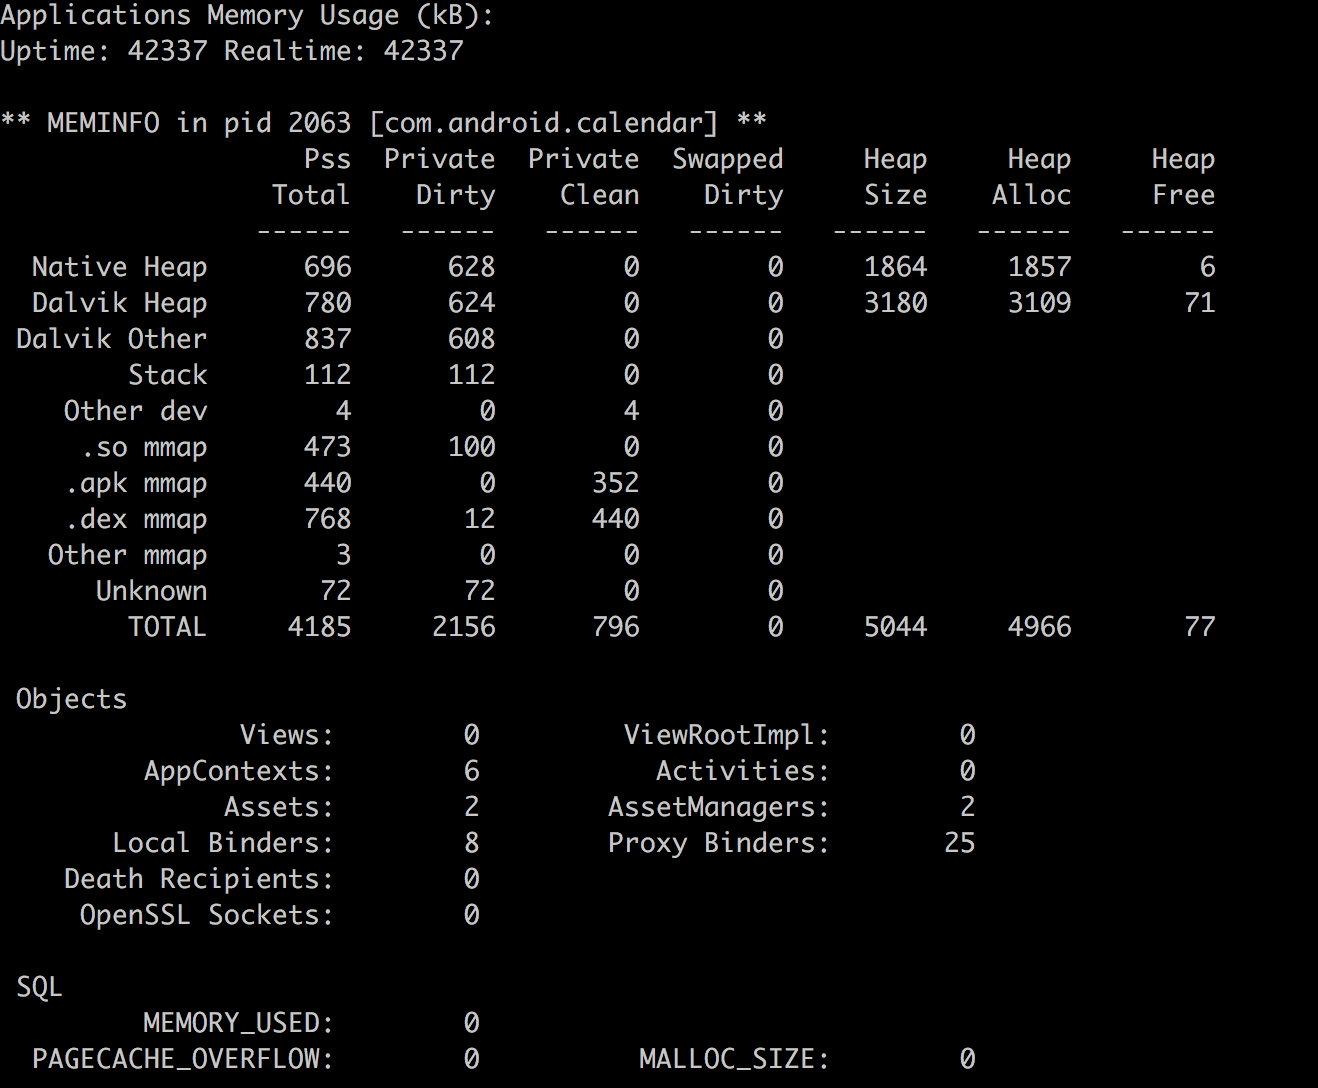
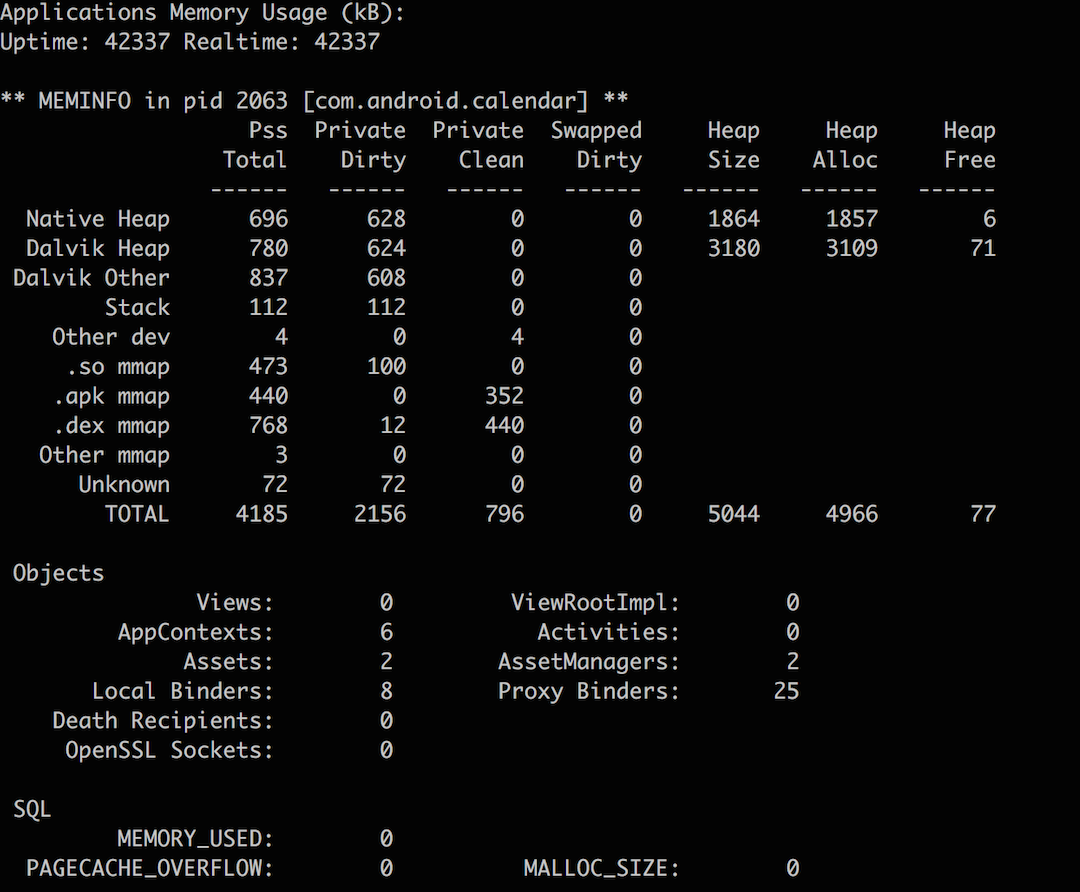
scale bitmap size and use local bitmap

diff --git a/Memory_analysis.md b/Memory_analysis.md
@@ -4,10 +4,10 @@
 
 获取对应应用的详细内存信息，一般我们会获取到如下信息(对于不同的Android版本以及不同厂商的ROM，以下信息会有一些差异)：
 
-![android_mem](http://upload-images.jianshu.io/upload_images/1098335-95a37c2c15b02a81.png?imageMogr2/auto-orient/strip%7CimageView2/2/w/1240)
-对于这些参数刚开始看到的时候比较晕，其中很多的内容不是非常的了解，也不了解这些数据来自于哪里，现在我希望通过源码分析的方式，找到这些数据来自于哪里，然后再分析它们的具体含义。
+![android_mem](/Resource/android_mem.png)
+对于这些参数刚开始看到的时候比较晕，其中很多的内容不是非常的了解，也不了解这些数据来自于哪里，这里希望通过源码分析的方式，找到这些数据来自于哪里，然后再分析它们的具体含义。
 
-&emsp;对于 [dumpsys](http://androidxref.com/4.2.2_r1/xref/frameworks/native/cmds/dumpsys/dumpsys.cpp) 这个命令我们可以在[androidxref.com](androidxref.com)中很容易的搜到它的源码，部分代码如下所示：
+&emsp;对于 [dumpsys](http://androidxref.com/4.2.2_r1/xref/frameworks/native/cmds/dumpsys/dumpsys.cpp) 这个命令我们可以在[androidxref.com](androidxref.com)中的[/frameworks/native/cmds/dumpsys/](http://androidxref.com/4.4_r1/xref/frameworks/native/cmds/dumpsys/)找到它的源码实现，部分代码如下所示：
 
 		Vector<String16> services;
 	    Vector<String16> args;
@@ -30,7 +30,7 @@
 
 		int err = service->dump(STDOUT_FILENO, args);
 
-这里就调用到了service的dump方法了，其中args存放的是dumpsys后面的参数；对于这个sm(ServiceManager)对象是Android系统中管理Service的类(其实它自己本身也是一个Service)，对于一般的Service都是通过调用Java层的ServiceManager类操作，我们通过搜索调用
+这里就调用到了service的dump方法了，其中args存放的是[dumpsys meminfo]命令后面的参数；对于这个sm(ServiceManager)对象是Android系统中管理Service的类(其实它自己本身也是一个Service)，对于一般的Service都是通过调用Java层的ServiceManager类中的add()方法将Service添加到ServiceManager中(这里有关Binder部分的内容大家可以自行学习一下)，我们通过搜索调用
 
 	ServiceManager.addService(String name, IBinder service);
 
@@ -43,7 +43,7 @@
 		ServiceManager.addService("gfxinfo", new GraphicsBinder(m));
 		ServiceManager.addService("dbinfo", new DbBinder(m));
 
-这里可以很清晰的看到调用ServiceManager的addServcie()方法，将ActivityManagerService、MemBinder等添加到了ServiceManager中，找到这里我们终于发现了我们的meminfo对于的Service——MemBinder。这里的MemBinder其实是继承Binder，并重写了dump()方法：
+这里可以很清晰的看到调用ServiceManager的addServcie()方法，将ActivityManagerService、MemBinder等添加到了ServiceManager中，找到这里我们终于发现了我们的meminfo对应的Service——MemBinder。这里的MemBinder其实是继承Binder，并重写了dump()方法：
 
           
 	protected void dump(FileDescriptor fd, PrintWriter pw, String[] args) {
@@ -133,7 +133,7 @@
 	        Debug.getMemoryInfo(r.pid, mi);
 	    }
 
-在上面的内存获取的过程中，一般dumpAll为true，所以会调用Process.thread参数，这里的thread为IApplcationThread对象，对于熟悉Activity的过程对于这个接口并不陌生(如果不是很清楚可以自行补补哈)，这个最终存储的是ActivityThread中的ApplicationThread对象(这里如果不是很理解可以参考一下Android中[App启动过程的分析](http://blog.csdn.net/luoshengyang/article/details/6689748))，这里直接调用了该对象的dumpMeminfo()方法(ActivityThread中的ApplicationThread)：
+在上面的内存获取的过程中，一般dumpAll为true，所以会调用Process.thread参数，这里的thread为IApplcationThread对象，对于熟悉Activity启动过程的同学对于这个接口并不陌生(如果不是很清楚可以自行补补哈)，这个最终存储的是ActivityThread中的ApplicationThread对象(这里如果不是很理解可以参考一下Android中[App启动过程的分析](http://blog.csdn.net/luoshengyang/article/details/6689748))，这里直接调用了该对象的dumpMeminfo()方法(ActivityThread中的ApplicationThread)：
 
 		long nativeMax = Debug.getNativeHeapSize() / 1024;
 	    long nativeAllocated = Debug.getNativeHeapAllocatedSize() / 1024;
@@ -149,7 +149,7 @@
 	    long dalvikAllocated = dalvikMax - dalvikFree;
 	    ...........
 
-这部分的内容主要是获取java heap和native heap相关的内存信息，通过这部分内容，我们可以看到native heap信息的获取是通过Debug类中的静态方法获取的，对于java heap的内存信息是通过Runtime类中的静态方法获取到的，对于java heap的内存信息的获取还是比较简单的。对于native heap可能就比较的复杂，Debug中的调用的静态方法为native方法，这部分的JNI实现在[android_os_Debug.cpp](http://androidxref.com/4.2.2_r1/xref/frameworks/base/core/jni/android_os_Debug.cpp)中，这里需要看看getMemoryInfo()方法的实现：
+这部分的内容主要是获取java heap和native heap相关的内存信息，通过这部分内容，我们可以看到native heap信息的获取是通过Debug类中的静态方法获取的，java heap的内存信息是通过Runtime类中的静态方法获取到的，java heap的内存信息的获取还是比较简单的。对于native heap可能就比较的复杂，Debug中的调用的静态方法为native方法，这部分的JNI实现在[android_os_Debug.cpp](http://androidxref.com/4.2.2_r1/xref/frameworks/base/core/jni/android_os_Debug.cpp)中，这里同时需要看看getMemoryInfo()方法的实现，因为通过调用该方法可以获取[Debug.MemoryInfo](http://androidxref.com/4.2.2_r1/xref/frameworks/base/core/java/android/os/Debug.java#110)的信息，该类包含了dalvikPss、nativePss以及so.mmap等内存信息：
 
 	//JNI方法注册过程中java层方法与native方法的对应关系，关于这部分不是很懂的，可以参考
 	//获取native heap相关的信息
@@ -173,7 +173,7 @@
 		#endif
 		}
 
-其他的获取native的内存类似，对于getMemoryInfo()的方法对应的，实现方法如下：
+其他的获取native的内存类似，对于getMemoryInfo()的方法对应的实现如下：
 
 		static void android_os_Debug_getDirtyPages(JNIEnv *env, jobject clazz, jobject object)
 		{
@@ -297,7 +297,7 @@
 2.内存的获取：
 
 		java heap：
-				Dalvik Pss:	Debug.MemoryInfo.dalvikPss
+				Dalvik Pss:	Debug.MemoryInfo.dalvikPss// /proc/pid/smaps中获取
 				Dalvik SharedPrivateDirty:	Debug.MemoryInfo.dalvikSharedDirty
 				......
 				Dalvik Size: Runtime.totalMemory()
@@ -317,5 +317,5 @@
 这里Debug.MemoryInfo相关的信息主要通过读取/proc/PID/smaps文件中的信息，对于native size、alloc以及free主要是通过调用[android_os_Debug.cpp](http://androidxref.com/4.2.2_r1/xref/frameworks/base/core/jni/android_os_Debug.cpp)中的方法，最后调用
 [mallinfo()](http://man7.org/linux/man-pages/man3/mallinfo.3.html)方法获取，java层的size、alloc、以及free主要是根据Runtime来获取；
 
-&emsp;以上所有的分析都是基于4.4.2的源码进行分析的，这里我只是简单的分析了一下命令行是怎么获取到这些信息的，但是并没有详细的分析内存的来源以及原理，这部分是可以继续深究的！
+&emsp;以上所有的分析都是基于4.4.2的源码进行分析的，这里我只是简单的分析了一下命令行是怎么获取到这些信息的，但是并没有详细的内存的来源以及原理并没有深究(smaps里面的内容)，这部分是可以继续深究的，后面希望可以对这部分内容进行详细的研究。
 
